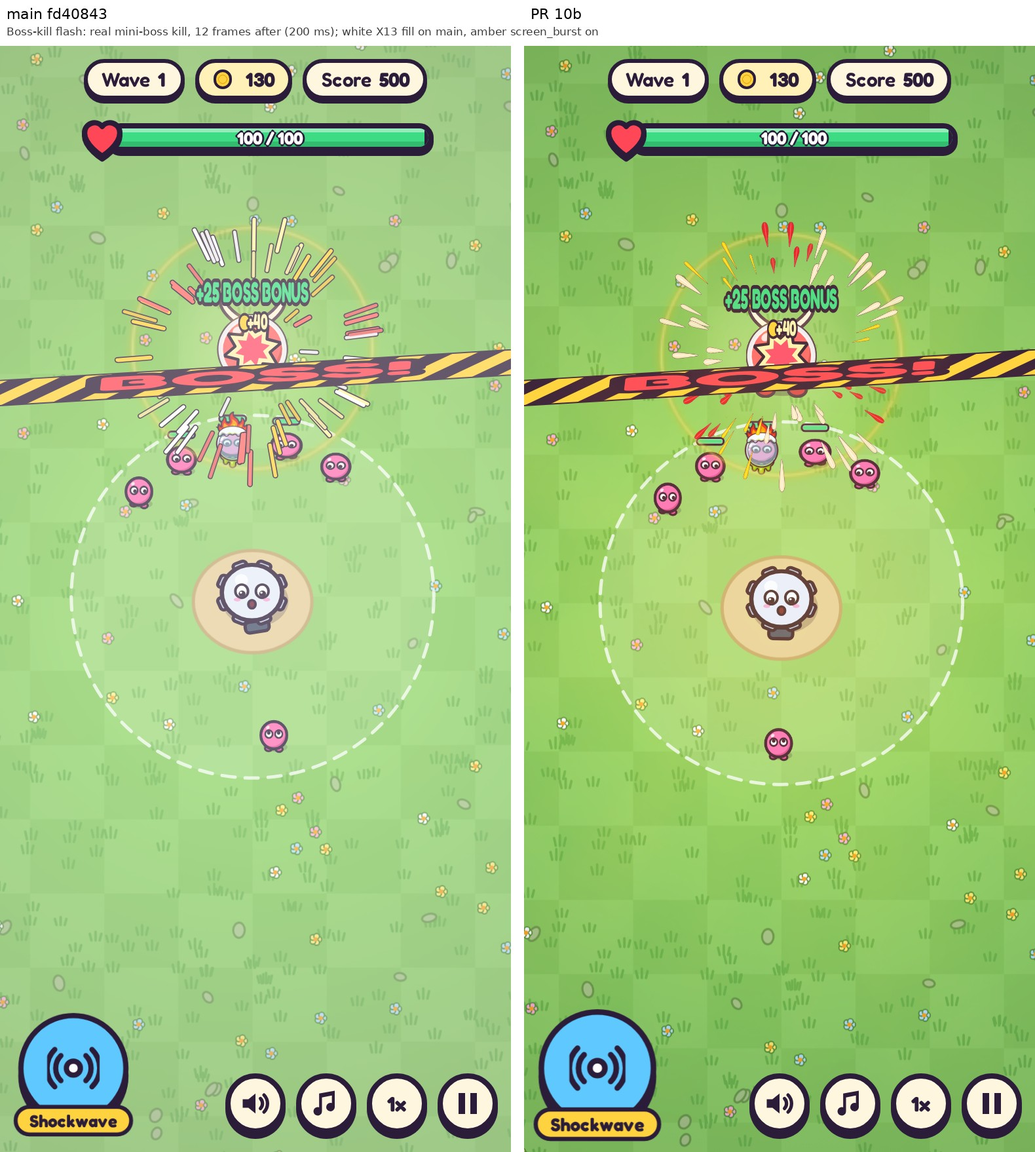
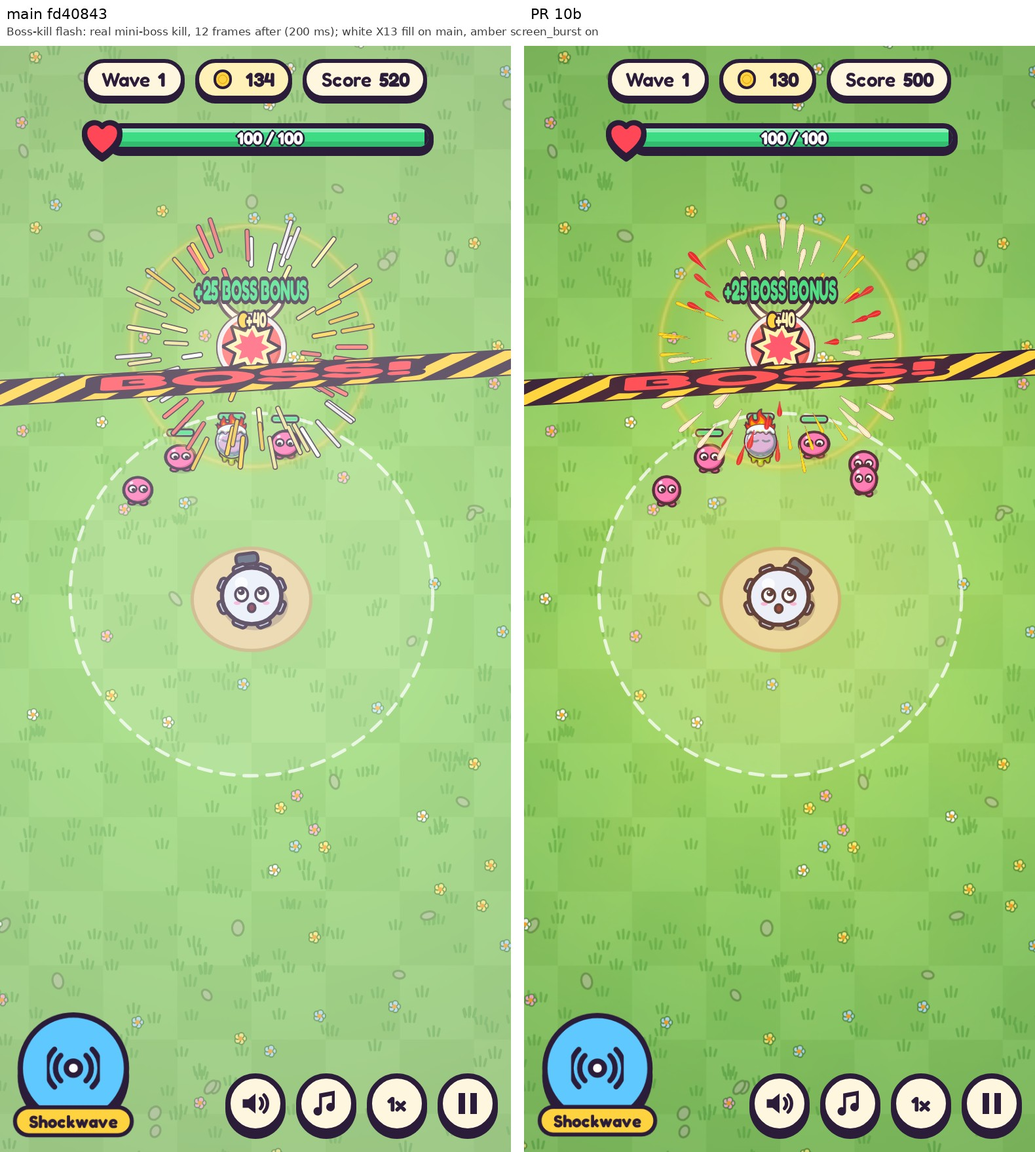
PR 10b P3s: lime v3, streak tuning, no per-particle allocation, QA tools, coverage checks
- streak_lime v3 (sha da9e529b...; its own painting, 12/10/9 px); v1 and v2 hashes under
  PROVENANCE `supersedes`, factual notes only. fx-test: lime-vs-pale alpha-mask IoU < 0.9
  (v2 0.983 red, v3 0.619 green).
- Streaks: fade.until 2 / power 0 on every streak.* (longer fresh / mid frames) and
  streakBurst.minLength 24, so slowed streaks stay dashes; data only.
- ParticleBatch / ProjectileTrails: one reused args object, ids cached by
  FxManifest.variantId, one save / restore per pass ("batched" SpriteEffect draws undo their
  own transform). Effective draws identical (2221 draws: corners, alpha, blend).
  render-test checks the reuse (red on the old drawers).
- fx-test: every element trail has presets.trail.elementGlows naming a glow effect.
- docs/qa/pr10b shots.py / cmp.py -> tools/qa/pr10b-shots.py / pr10b-compare.py (argparse:
  --port / --base / --tag / --out; --main / --pr / --out), zoom crops included. Re-shot.
- OO-MIGRATION: PR 10b status follows the Nov 23 rule.

diff --git a/tools/render-test.js b/tools/render-test.js
@@ -247,8 +247,12 @@ class RenderTest {
       const moving = shots.filter((p) => p.vx || p.vy), lens = moving.map((p) => Math.min(T.maxLength, Math.hypot(p.vx, p.vy) * T.stretch) * (p.trail ? T.elementLength : 1));
       this.ok(JSON.stringify(trails.map((d) => d.img)) === JSON.stringify(["trail_base", "trail_base", "trail_frost", "trail_ember"]) && trails.every((d, i) => near(d.dw, lens[i]) && near(d.dh, T.height)),
         `fx 10b (${th}, low=${low}): every moving shot plays trail.<its element trail, else base> stretched behind it (lengths ${lens.map((l) => l.toFixed(1)).join(", ")}, height ${T.height}); a still shot has none`);
-      const rots = out.trails.filter((l) => l.startsWith("ctx.rotate(")).slice(0, 4).map((l) => Number(l.slice(11, -1)));
-      this.ok(rots.length === 4 && moving.every((p, i) => near(rots[i], Math.atan2(p.vy, p.vx))), `fx 10b (${th}, low=${low}): each trail is rotated to its shot's velocity`);
+      // Batched draws undo their own rotate (no per-draw save / restore): rotations come in (a, -a) pairs.
+      const allRots = out.trails.filter((l) => l.startsWith("ctx.rotate(")).map((l) => Number(l.slice(11, -1)));
+      const rots = allRots.filter((_, k) => k % 2 === 0).slice(0, 4), undone = allRots.length % 2 === 0 && allRots.every((r, k) => k % 2 === 0 || r === -allRots[k - 1]);
+      this.ok(rots.length === 4 && undone && moving.every((p, i) => near(rots[i], Math.atan2(p.vy, p.vx))), `fx 10b (${th}, low=${low}): each trail is rotated to its shot's velocity, and each rotate is undone exactly`);
+      const saves = all.filter((l) => l === "ctx.save()").length, restores = all.filter((l) => l === "ctx.restore()").length;
+      this.ok(saves === restores && saves <= 2, `fx 10b (${th}, low=${low}): no per-particle save / restore (one balanced pair per drawer pass: ${saves} / ${restores})`);
       const tA = out.trails.filter((l) => l.startsWith("ctx.globalAlpha=")).map((l) => Number(l.slice(16)));
       this.ok(tA.slice(0, 4).every((a) => near(a, Math.min(1, theme.trailAlpha))), `fx 10b (${th}, low=${low}): trails at the theme's trail opacity (${theme.trailAlpha})`);
       const wantG = low ? [] : ["glow_gold", "glow_gold", "glow_amber", "glow_cyan", "glow_orange"], wantR = [T.glowRadius, T.glowRadius, T.critGlowRadius, T.glowRadius * T.elementGlowMul, T.glowRadius * T.elementGlowMul];
@@ -265,16 +269,24 @@ class RenderTest {
       const motes = pd.filter((d) => d.img === "motes");
       this.ok(motes.every((d, k) => near(d.dw, 2 * mR(soft[k]))), `fx 10b (${th}, low=${low}): mote cores at the old core radius (max(1.2 px, 0.24 x size)) x the entry's size`);
       const streaks = pd.filter((d) => d.img.startsWith("streak_")), step = (i) => Math.min(2, ((1 - pool.life[i] / pool.maxLife[i]) * 3) | 0);
-      this.ok(streaks.length === streak.length && streaks.every((d, k) => { const i = streak[k], sp = Math.hypot(pool.vx[i], pool.vy[i]) || 1; return d.sx === Math.floor(((step(i) + 0.5) / 3) * 4) * 64 && near(d.dh, pool.size[i] + ink * 1.5) && near(d.dw, Math.max(pool.minLen[i], sp * pool.stretch[i])); }),
-        `fx 10b (${th}, low=${low}): streaks play the frame of their fade step (fresh / mid / fade: progress (step + 0.5) / 3 through the strip; the stub strip has 4 frames), stretched to the old length (max(minLen, speed x stretch)), height = width + the old ink edge (${ink} px x unit)`);
+      this.ok(streaks.length === streak.length && streaks.every((d, k) => { const i = streak[k], sp = Math.hypot(pool.vx[i], pool.vy[i]) || 1; const U = (data.effects["streak." + pal[pool.color[i]]].fade || {}).until || 1; return d.sx === Math.min(3, Math.floor(((step(i) + 0.5) / 3 / U) * 4)) * 64 && near(d.dh, pool.size[i] + ink * 1.5) && near(d.dw, Math.max(pool.minLen[i], sp * pool.stretch[i])); }),
+        `fx 10b (${th}, low=${low}): streaks play the frame of their fade step (fresh / mid / fade: progress (step + 0.5) / 3 / fade.until through the strip, fx.json holds the longer frames; the stub strip has 4 frames), stretched to the old length (max(minLen, speed x stretch)), height = width + the old ink edge (${ink} px x unit)`);
       const pA = out.pool.filter((l) => l.startsWith("ctx.globalAlpha=")).map((l) => Number(l.slice(16)));
       const wantA = [...glowOrder.map((i) => { const f = pool.life[i] / pool.maxLife[i]; return (pool.shape[i] === S.SOFT ? Math.min(1, (1 - f) * 6) * Math.pow(f, 0.6) * 0.85 : f) * theme.glow; }),
         ...soft.map((i) => { const f = pool.life[i] / pool.maxLife[i]; return Math.min(1, (1 - f) * 6) * Math.pow(f, 0.5) * 0.95; }), ...streak.map((i) => Math.min(1, (1 - (step(i) + 0.5) / 3) * 1.8))].map((a) => Math.min(1, a)).filter((a) => a >= 0.01);
       this.ok(pA.length === wantA.length && pA.every((a, i) => near(a, wantA[i])), `fx 10b (${th}, low=${low}): every particle keeps the old opacity curve (${pA.length} draws)`);
       this.ok(fx.drawn === n, `fx 10b: the batcher still counts drawn particles for QA (${fx.drawn})`);
     }
+    { // P3: no per-particle allocation. Every draw from a drawer reuses its one args object, and ids are cached strings.
+      const { fx, pool, shots } = this.particleCalls(true, false, "cartoon"), E = fx.effects, seen = [], draw = E.draw.bind(E);
+      E.draw = (id, ctx, at) => { seen.push([id, at]); return draw(id, ctx, at); };
+      const c = new DrawRecorder().ctx("c"); fx.drawProjectiles(c, shots, false); fx.drawPool(c, pool, 1.5, false);
+      const ats = new Set(seen.map(([, at]) => at)), ids = typeof E.variantId === "function" && seen.every(([id]) => id === E.variantId(...id.split(".")));
+      this.ok(seen.length > 20 && ats.size === 2 && ids, `fx 10b: trails and particles reuse one args object per drawer and cached ids (${seen.length} draws, ${ats.size} args objects)`);
+    }
     const none = this.particleCalls(false, false, "cartoon"), drawn = [...none.out.trails, ...none.out.pool];
-    this.ok(drawn.length === 0, `fx 10b: with no art loaded, trails and particles draw nothing at all (no fallback; ${drawn.length} calls)`);
+    const real = drawn.filter((l) => l !== "ctx.save()" && l !== "ctx.restore()");
+    this.ok(real.length === 0 && drawn.filter((l) => l === "ctx.save()").length === drawn.filter((l) => l === "ctx.restore()").length, `fx 10b: with no art loaded, trails and particles draw nothing at all (no fallback; ${real.length} calls besides the drawers' balanced save / restore)`);
   }
 
   // ---------- 3. PR 10a: the converted drawers play fx.json effects ----------

diff --git a/tools/fx-test.js b/tools/fx-test.js
@@ -93,11 +93,17 @@ class FxTest {
     const B = { motes: ["motes", 256, 32, 8], vignette_red: ["vignette", 720, 1560, 1], vignette_dark: ["vignette", 720, 1560, 1] };
     for (const v of ["pale", "gold", "amber", "red", "pink", "cyan", "green", "lime", "soot"]) B["streak_" + v] = ["streak", 192, 16, 3];
     for (const v of ["base", "ember", "frost", "spark", "venom"]) B["trail_" + v] = ["trail", 128, 24, 1];
-    // streak_lime v2 (Nov 23: one approved repaint, frames fill 16 / 14 / 12 px) replaces v1 in place; v1's hash is kept in its entry's "supersedes".
-    const V10b = { streak_lime: "v2" };
-    const lime = prov["streak/streak_lime.png"] || {};
[1 lines of base64/hex data omitted]
-      "art 10b: streak_lime ships v2 and its PROVENANCE entry keeps v1's sha256 (fb167b38) as history");
+    // streak_lime v3 (Nov 23, painted from its own prompt with no reference) replaces v1 (too thin) and v2 (blocked:
+    // a recolour of streak_pale); both hashes stay in its PROVENANCE entry's "supersedes" as history.
+    const V10b = { streak_lime: "v3" };
+    const lime = prov["streak/streak_lime.png"] || {}, sup = [].concat(lime.supersedes || []);
[2 lines of base64/hex data omitted]
+      "art 10b: streak_lime ships v3 (da9e529b) and its PROVENANCE entry keeps v1 (fb167b38) and v2 (cfcc43bb) as history");
+    // A colour variant is its own painting, not another variant recoloured: lime's alpha mask (alpha >= 50%,
+    // whole sheet) overlaps pale's with IoU < 0.9 (v2, a pale recolour, measured 0.983).
+    const iou = FxTest.maskIoU(path.join(this.root, "assets/fx/streak/streak_lime.png"), path.join(this.root, "assets/fx/streak/streak_pale.png"));
+    this.ok(iou < 0.9, `art 10b: streak_lime is its own painting, not streak_pale recoloured (alpha >= 50% mask IoU vs pale ${iou.toFixed(3)} < 0.9)`);
     const bad10b = Object.entries(B).filter(([id, [dir, w, h, n]]) => {
       const rel = data.sheets[id], j = rel && JSON.parse(this.read("assets/fx/" + rel)), f = j && dir + "/" + j.image, wh = f && png(f);
       return !j || rel !== dir + "/" + id + ".json" || !prov[f] || prov[f].version !== (V10b[id] || "v1") || j.version !== (V10b[id] || "v1") || wh[0] !== w || wh[1] !== h || j.count !== n || j.frameW * n !== w || j.frameH !== h
@@ -107,7 +113,7 @@ class FxTest {
     const moteBad = Object.entries(data.effects).filter(([k]) => k.startsWith("mote.")).filter(([k, e]) => e.sheet !== "motes" || e.frame !== cells.indexOf(k.slice(5)) || e.frame < 0).map(([k]) => k);
     const fills = ["lowHpVignette:vignette_red", "finaleDim:vignette_dark"].filter((x) => { const [k, sh] = x.split(":"); return data.effects[k].sheet !== sh || data.effects[k].fit !== "fill"; });
     this.ok(!bad10b.length && !moteBad.length && cells.length === 8 && !fills.length,
-      `art 10b: ${Object.keys(B).length} delivered sheets (v1; streak_lime v2) at their delivered sizes with head-right pivots (bad: ${bad10b.join(", ") || "none"}); mote.<v> plays the motes cell named v (bad: ${moteBad.join(", ") || "none"}); lowHpVignette / finaleDim fill the screen with vignette_red / vignette_dark (bad: ${fills.join(", ") || "none"})`);
+      `art 10b: ${Object.keys(B).length} delivered sheets (v1; streak_lime v3) at their delivered sizes with head-right pivots (bad: ${bad10b.join(", ") || "none"}); mote.<v> plays the motes cell named v (bad: ${moteBad.join(", ") || "none"}); lowHpVignette / finaleDim fill the screen with vignette_red / vignette_dark (bad: ${fills.join(", ") || "none"})`);
     // Venom bursts (main: pale lime #e4ffb8, lime #b4f06a, green #8be04a) play streak_lime twice and green once (Game Art streak_lime, Nov 16).
     const ven = data.impacts.elemVenom && data.impacts.elemVenom.colors;
     this.ok(String(ven) === "lime,lime,green" && data.effects["streak.lime"] && data.effects["streak.lime"].sheet === "streak_lime" && prov["streak/streak_lime.png"],
@@ -202,16 +208,39 @@ class FxTest {
     return out;
   }
 
+  // Every element's shot trail (src/elements/*.js `trail: "x"`) has presets.trail.elementGlows[x]
+  // naming an existing glow effect, and a trail.x effect. A missing entry would otherwise draw the
+  // id "glow.undefined" (nothing) without any error.
+  checkElementGlows(data) {
+    const dir = path.join(this.root, "src/elements"), T = (data.presets && data.presets.trail) || {}, G = T.elementGlows || {};
+    const trails = [...new Set(fs.readdirSync(dir).filter((f) => f.endsWith(".js")).flatMap((f) => [...this.read("src/elements/" + f).matchAll(/\btrail:\s*"(\w+)"/g)].map((m) => m[1])))].sort();
+    this.ok(trails.length >= 4, `elements: found the element shot trails (${trails.join(", ")})`);
+    for (const t of trails) {
+      this.ok(typeof G[t] === "string" && !!data.effects["glow." + G[t]], `elements: trail "${t}" has presets.trail.elementGlows.${t} naming a glow effect (${G[t] === undefined ? "missing: would draw glow.undefined" : "glow." + G[t]})`);
+      this.ok(!!data.effects["trail." + t], `elements: trail "${t}" has a trail.${t} effect`);
+    }
+  }
+
   async run() {
     const LST = this.sandbox().LST;
     this.checkFiles();
     const data = this.checkManifest(LST);
+    this.checkElementGlows(data);
     this.checkObjects(LST);
     await this.checkServiceWorker(data);
     console.log(this.fails ? `\n${this.fails} FAILED (${this.passes} passed)` : `\nALL PASS (${this.passes} passed)`);
     return this.fails ? 1 : 0;
   }
 }
+
+// IoU of two same-size PNGs' alpha >= 50% masks (whole sheet).
+FxTest.maskIoU = (a, b) => {
+  const P = require("./fx-art-scan.js").png, A = P(fs.readFileSync(a)), B = P(fs.readFileSync(b));
+  if (A.w !== B.w || A.h !== B.h) return 0;
+  let both = 0, any = 0;
+  for (let i = 3; i < A.px.length; i += 4) { const x = A.px[i] >= 128, y = B.px[i] >= 128; if (x && y) both++; if (x || y) any++; }
+  return any ? both / any : 0;
+};
 
 module.exports = FxTest;
 if (require.main === module) new FxTest().run().then((c) => process.exit(c));

diff --git a/src/fx/draw/ParticleBatch.js b/src/fx/draw/ParticleBatch.js
@@ -5,12 +5,23 @@
 // and the ink outline is in the art. A particle's colour is a variant name (fx.json presets and
 // impacts); it never draws a shape or tints, and draws nothing until the art is in.
 // Drawn for FxRenderer (the batcher), which passes itself as `fx` for the theme and the effects.
+// Per frame it allocates nothing: one reused draw-args object (every field set on each draw), ids
+// from FxManifest.variantId, and one save / restore around the passes (draws are "batched").
 LST.ParticleBatch = class ParticleBatch {
+  constructor() { this.at = { x: 0, y: 0, x2: null, y2: null, base: 1, p: null, alpha: 1, blend: null, batched: true }; }
+
+  // The reused draw args for one particle (no per-particle object).
+  args(x, y, x2, y2, base, p, alpha, blend) {
+    const at = this.at; at.x = x; at.y = y; at.x2 = x2; at.y2 = y2; at.base = base; at.p = p; at.alpha = alpha; at.blend = blend;
+    return at;
+  }
+
   draw(fx, ctx, pool, unitPx = 1, low = false) {
     const n = pool.count;
     if (!n) return;
     const th = fx.theme, S = LST.FX_SHAPE, pal = pool.palette, E = fx.effects;
     if (!E) return;
+    ctx.save();
     let streaks = 0;
     for (let i = 0; i < n; i++) {
       const sh = pool.shape[i];
@@ -18,15 +29,16 @@ LST.ParticleBatch = class ParticleBatch {
       const f = pool.life[i] / pool.maxLife[i];
       const R = sh === S.SOFT ? pool.size[i] * (0.55 + 0.45 * f) : pool.size[i] * (1.2 - 0.2 * f);
       const a = (sh === S.SOFT ? Math.min(1, (1 - f) * 6) * Math.pow(f, 0.6) * 0.85 : f) * th.glow;
-      E.draw("glow." + pal[pool.color[i]], ctx, { x: pool.x[i], y: pool.y[i], base: R, alpha: a, blend: th.blend });
+      E.draw(E.variantId("glow", pal[pool.color[i]]), ctx, this.args(pool.x[i], pool.y[i], null, null, R, null, a, th.blend));
     }
     for (let i = 0; i < n; i++) {
       if (pool.shape[i] !== S.SOFT) continue;
       const f = pool.life[i] / pool.maxLife[i];
       const r = Math.max(1.2 * unitPx, pool.size[i] * 0.24);
-      E.draw("mote." + pal[pool.color[i]], ctx, { x: pool.x[i], y: pool.y[i], base: r, alpha: Math.min(1, (1 - f) * 6) * Math.pow(f, 0.5) * 0.95 });
+      E.draw(E.variantId("mote", pal[pool.color[i]]), ctx, this.args(pool.x[i], pool.y[i], null, null, r, null, Math.min(1, (1 - f) * 6) * Math.pow(f, 0.5) * 0.95, null));
     }
     if (streaks) this.drawStreaks(fx, ctx, pool, unitPx);
+    ctx.restore();
   }
 
   // Streak b (fade step 0 = fresh .. FADE-1 = nearly dead) plays frame b at the old step opacity;
@@ -39,8 +51,8 @@ LST.ParticleBatch = class ParticleBatch {
       const b = this.fadeStep(pool, i, FADE), f = 1 - (b + 0.5) / FADE;
       const vx = pool.vx[i], vy = pool.vy[i], sp = Math.hypot(vx, vy) || 1;
       const len = Math.max(pool.minLen[i], sp * pool.stretch[i]);
-      E.draw("streak." + pal[pool.color[i]], ctx, { x: pool.x[i], y: pool.y[i], x2: pool.x[i] + (vx / sp) * len, y2: pool.y[i] + (vy / sp) * len,
-        base: pool.size[i] + ink * unitPx, p: (b + 0.5) / FADE, alpha: Math.min(1, f * 1.8) });
+      E.draw(E.variantId("streak", pal[pool.color[i]]), ctx, this.args(pool.x[i], pool.y[i], pool.x[i] + (vx / sp) * len, pool.y[i] + (vy / sp) * len,
+        pool.size[i] + ink * unitPx, (b + 0.5) / FADE, Math.min(1, f * 1.8), null));
     }
   }
 

diff --git a/src/fx/SpriteEffect.js b/src/fx/SpriteEffect.js
@@ -4,12 +4,14 @@
 // with drawImage and may move, scale, rotate and fade it (opacity). It never draws a shape,
 // never tints, and draws nothing until its image is in.
 //
-//   draw(ctx, at)  at = { x, y, base, t, p, level, variant, pick, alpha, blend, low, x2, y2, index, w, h }
+//   draw(ctx, at)  at = { x, y, base, t, p, level, variant, pick, alpha, blend, low, x2, y2, index, w, h, batched }
 //     base     the caller's size unit (tower radius, ring radius, 1 for px); R = size x base
 //     t        seconds (loop frames, pulses)      p  life progress 0..1 (one-shot frames, fades)
 //     level    0..1 for "by": "level" values      variant / pick  which sheet / strip of a list
 //     alpha    the caller's strength (x the entry alpha)   blend  the caller's composite op (else the entry's)
 //     x2, y2   segment end ("fit": "segment" / "stretch")  w, h   the rectangle at x, y ("fit": "fill")
+//     batched  the caller wraps a whole pass in one save / restore: no per-draw save / restore (it
+//              sets blend and opacity on every draw and undoes its own segment transform)
 //   fit: radius (default), segment (art height x size), stretch (height = size x base), fill (the rectangle).
 //   frame: a fixed frame of the strip (an atlas cell), instead of playing it.
 LST.SpriteEffect = class SpriteEffect {
@@ -70,14 +72,14 @@ LST.SpriteEffect = class SpriteEffect {
     const W = LST.SpriteEffect;
     const a = W.value(e.alpha, at, p) * (at.alpha == null ? 1 : at.alpha) * this.fade(p) * (1 + W.wave(e.alphaPulse, at.t) - (e.alphaPulse ? e.alphaPulse.amp : 0));
     if (a < 0.01) return false;
-    const i = this.frame(anim, at, p), off = e.offset || [0, 0];
-    ctx.save();
+    const i = this.frame(anim, at, p), off = e.offset;
+    if (!at.batched) ctx.save();
     ctx.globalCompositeOperation = at.blend || e.blend || "source-over";
     ctx.globalAlpha = Math.min(1, a);
     if (e.fit === "segment" || e.fit === "stretch") this.drawSegment(ctx, anim, i, at, p);
     else if (e.fit === "fill") ctx.drawImage(anim.image, Math.max(0, Math.min(anim.count - 1, i | 0)) * anim.fw, anim.sy, anim.fw, anim.fh, at.x, at.y, at.w, at.h);
-    else anim.draw(ctx, i, at.x + off[0], at.y + off[1], (W.value(e.size, at, p) + W.wave(e.pulse, at.t)) * (at.base == null ? 1 : at.base));
-    ctx.restore();
+    else anim.draw(ctx, i, at.x + (off ? off[0] : 0), at.y + (off ? off[1] : 0), (W.value(e.size, at, p) + W.wave(e.pulse, at.t)) * (at.base == null ? 1 : at.base));
+    if (!at.batched) ctx.restore();
     return true;
   }
 
@@ -92,8 +94,11 @@ LST.SpriteEffect = class SpriteEffect {
     const kx = L / anim.fw, ky = LST.SpriteEffect.value(e.size, at, p) * (at.base == null ? 1 : at.base) / (e.fit === "stretch" ? anim.fh : 1);
     const f = Math.max(0, Math.min(anim.count - 1, i | 0));
     ctx.translate(at.x, at.y);
-    ctx.rotate(Math.atan2(uy, ux));
+    const angle = Math.atan2(uy, ux);
+    ctx.rotate(angle);
     ctx.drawImage(anim.image, f * anim.fw, anim.sy, anim.fw, anim.fh, -anim.ax * kx, -anim.ay * ky, anim.fw * kx, anim.fh * ky);
+    // Batched callers own canvas state; undo only our local transform, without a state-stack copy.
+    if (at.batched) { ctx.rotate(-angle); ctx.translate(-at.x, -at.y); }
   }
 };
 

diff --git a/src/fx/draw/ProjectileTrails.js b/src/fx/draw/ProjectileTrails.js
@@ -4,24 +4,35 @@
 // (crit, element or plain glow from presets.trail), skipped in low quality. It never draws a
 // shape or tints, and draws nothing until the art is in.
 // Drawn for FxRenderer (the batcher), which passes itself as `fx` for the theme and the effects.
+// Per frame it allocates nothing: one reused draw-args object (every field set on each draw), ids
+// from FxManifest.variantId, and one save / restore around the passes (draws are "batched").
 LST.ProjectileTrails = class ProjectileTrails {
+  constructor() { this.at = { x: 0, y: 0, x2: null, y2: null, base: 1, alpha: 1, blend: null, batched: true }; }
+
+  args(x, y, x2, y2, base, alpha, blend) {
+    const at = this.at; at.x = x; at.y = y; at.x2 = x2; at.y2 = y2; at.base = base; at.alpha = alpha; at.blend = blend;
+    return at;
+  }
+
   draw(fx, ctx, list, low) {
     const E = fx.effects, T = E && E.preset("trail"), th = fx.theme;
     if (!list.length || !T) return;
+    ctx.save();
     for (let i = 0; i < list.length; i++) {
       const p = list[i];
       const sp = Math.hypot(p.vx, p.vy);
       if (!sp) continue;
       const len = Math.min(T.maxLength, sp * T.stretch) * (p.trail ? T.elementLength : 1);
-      E.draw("trail." + (p.trail || T.variant), ctx, { x: p.x, y: p.y, x2: p.x + (p.vx / sp) * len, y2: p.y + (p.vy / sp) * len, base: T.height, alpha: th.trailAlpha });
+      E.draw(E.variantId("trail", p.trail || T.variant), ctx, this.args(p.x, p.y, p.x + (p.vx / sp) * len, p.y + (p.vy / sp) * len, T.height, th.trailAlpha, null));
     }
-    if (low) return;
+    if (low) { ctx.restore(); return; }
     const a = Math.min(1, T.glowAlpha * th.glow);
     for (let i = 0; i < list.length; i++) {
       const p = list[i];
       const R = (p.crit ? T.critGlowRadius : T.glowRadius) * (p.trail ? T.elementGlowMul : 1);
       const g = p.crit ? T.critGlow : p.trail ? T.elementGlows[p.trail] : T.glow;
-      E.draw("glow." + g, ctx, { x: p.x, y: p.y, base: R, alpha: a, blend: th.blend });
+      E.draw(E.variantId("glow", g), ctx, this.args(p.x, p.y, null, null, R, a, th.blend));
     }
+    ctx.restore();
   }
 };

diff --git a/src/sprites/SheetAnimation.js b/src/sprites/SheetAnimation.js
@@ -38,7 +38,8 @@ LST.SheetAnimation = class SheetAnimation {
 
   draw(ctx, i, x, y, bodyR) {
     if (!this.image) return false;
-    const f = Math.max(0, Math.min(this.count - 1, i | 0)), [dx, dy, dw, dh] = this.rect(x, y, bodyR);
+    const f = Math.max(0, Math.min(this.count - 1, i | 0)), k = bodyR / this.refBodyR;
+    const dx = x - this.ax * k, dy = y - this.ay * k, dw = this.fw * k, dh = this.fh * k;
     ctx.drawImage(this.image, f * this.fw, this.sy, this.fw, this.fh, dx, dy, dw, dh);
     return true;
   }

diff --git a/src/fx/FxManifest.js b/src/fx/FxManifest.js
@@ -98,6 +98,11 @@ LST.FxManifest = class FxManifest {
   impact(name) { return (name && this.data.impacts[name]) || null; }
 
   preset(id) { return this.data.presets[id] || null; }
+  // "<kind>.<variant>" (e.g. "glow.gold"), built once per pair so per-particle draws make no strings.
+  variantId(kind, v) {
+    const c = this.ids || (this.ids = {}), k = c[kind] || (c[kind] = {});
+    return k[v] || (k[v] = kind + "." + v);
+  }
   theme(id) { return this.data.themes[id] || null; }
 
   triggers() {

diff --git a/tools/qa/pr10b-compare.py b/tools/qa/pr10b-compare.py
@@ -1,0 +1,48 @@
+#!/usr/bin/env python3
+# PR 10b side-by-side compares from two pr10b-shots.py runs: one main-vs-PR image per shot, a
+# contact sheet (each pair at 1/3), and zoom crops (the two crops side by side at device pixels).
+#   python3 tools/qa/pr10b-compare.py --main /tmp/shots-main --pr /tmp/shots-10b --out docs/qa/pr10b
+import argparse, json, os
+from PIL import Image, ImageDraw, ImageFont
+ap = argparse.ArgumentParser(description="PR 10b main-vs-PR compares, contact sheet and zooms")
+ap.add_argument("--main", required=True, help="folder of the main run (pr10b-shots-<tag>.json inside)")
+ap.add_argument("--pr", required=True, help="folder of the PR run")
+ap.add_argument("--main-tag", default="main"); ap.add_argument("--pr-tag", default="10b")
+ap.add_argument("--main-label", default="main fd40843"); ap.add_argument("--pr-label", default="PR 10b")
+ap.add_argument("--out", required=True, help="output folder (created if missing)")
+ap.add_argument("--font", default="/usr/share/fonts/truetype/dejavu/DejaVuSans.ttf")
+A = ap.parse_args()
+os.makedirs(A.out, exist_ok=True)
+M = json.load(open(os.path.join(A.main, "pr10b-shots-%s.json" % A.main_tag)))
+B = json.load(open(os.path.join(A.pr, "pr10b-shots-%s.json" % A.pr_tag)))
+F, F2, F3 = (ImageFont.truetype(A.font, s) for s in (22, 17, 14))
+names = {}
+out = []
+for (n, lab, fm, *_), (nb, _, fb, *__) in zip(M["shots"], B["shots"]):
+    assert n == nb, (n, nb)
+    a, b = Image.open(os.path.join(A.main, fm)).convert("RGB"), Image.open(os.path.join(A.pr, fb)).convert("RGB")
+    names[n] = (a, b)
+    W, H = a.size; C = Image.new("RGB", (W * 2 + 20, H + 70), "white"); C.paste(a, (0, 70)); C.paste(b, (W + 20, 70))
+    d = ImageDraw.Draw(C); d.text((10, 8), A.main_label, fill="black", font=F); d.text((W + 30, 8), A.pr_label, fill="black", font=F)
+    d.text((10, 38), lab[:110], fill=(60, 60, 60), font=F2)
+    f = os.path.join(A.out, "pr10b-%s-main-vs-10b-390x844.jpg" % n); C.save(f, quality=90); out.append(f)
+# contact sheet: each pair at 1/3
+tw, th = (780 * 2 + 20) // 3, (1688 + 70) // 3; cols = 3; rows = (len(out) + cols - 1) // cols
+S = Image.new("RGB", (cols * (tw + 10), rows * (th + 10)), "white")
+for i, f in enumerate(out): S.paste(Image.open(f).resize((tw, th)), ((i % cols) * (tw + 10), (i // cols) * (th + 10)))
+S.save(os.path.join(A.out, "pr10b-contact-sheet.jpg"), quality=88)
+# zooms: name -> (shot, device-px box x0, y0, x1, y1, scale, caption); the two crops side by side
+ZOOMS = {
+    "trails-row": ("09-trails-row", (90, 500, 690, 800), 1, "trails 1 fr"),
+    "streaks-each-f05": ("07-streaks-each-f05", (0, 100, 780, 900), 0.75, "streaks 5 fr"),
+    "streaks-each-f14": ("07-streaks-each-f14", (0, 100, 780, 900), 0.75, "streaks 14 fr"),
+    "motes-t4": ("05-motes-t4", (180, 640, 600, 1000), 1, "motes tier 4"),
+    "venom-burst": ("04b-streaks-elements", (120, 420, 380, 680), 2, "venom burst 5 fr"),
+}
+for z, (n, box, k, cap) in ZOOMS.items():
+    if n not in names: continue
+    a, b = (im.crop(box).resize((round((box[2] - box[0]) * k), round((box[3] - box[1]) * k)), Image.LANCZOS) for im in names[n])
+    w, h = a.size; C = Image.new("RGB", (w * 2 + 12, h + 22), "white"); C.paste(a, (0, 22)); C.paste(b, (w + 12, 22))
+    d = ImageDraw.Draw(C); d.text((4, 3), "%s  %s" % (A.main_label, cap), fill="black", font=F3); d.text((w + 16, 3), A.pr_label, fill="black", font=F3)
+    C.save(os.path.join(A.out, "pr10b-zoom-%s-main-vs-10b.png" % z))
+print(len(out), "compares,", len(ZOOMS), "zooms ->", A.out)

diff --git a/tools/qa/pr10b-shots.py b/tools/qa/pr10b-shots.py
@@ -1,8 +1,23 @@
+#!/usr/bin/env python3
 # PR 10b shots (390 x 844 @2x, Backyard), same script on main and on the PR tree. The game loop is
 # stopped and frames are stepped by hand, so each effect is caught at a set point in its life.
-import json, sys, math
+#   python3 tools/qa/pr10b-shots.py --port 8767 --tag 10b --out /tmp/shots-10b
+#   python3 tools/qa/pr10b-shots.py --port 8768 --tag main --out /tmp/shots-main   (a main worktree served on 8768)
+# Serve the tree first (e.g. python3 -m http.server 8767). Writes pr10b-<shot>-<tag>-390x844.png and
+# pr10b-shots-<tag>.json (labels, per-shot state, page errors) into --out.
+import argparse, json, os, sys, math
 from playwright.sync_api import sync_playwright
-BASE, TAG, OUT = sys.argv[1], sys.argv[2], sys.argv[3]
+ap = argparse.ArgumentParser(description="PR 10b effect shots at 390x844 @2x")
+ap.add_argument("--base", help="game URL ending in / (default http://<host>:<port>/)")
+ap.add_argument("--host", default="127.0.0.1")
+ap.add_argument("--port", type=int, default=8767)
+ap.add_argument("--tag", required=True, help="name in the file names, e.g. main or 10b")
+ap.add_argument("--out", required=True, help="output folder (created if missing)")
+A = ap.parse_args()
+BASE = A.base or "http://%s:%d/" % (A.host, A.port)
+if not BASE.endswith("/"): BASE += "/"
+TAG, OUT = A.tag, os.path.join(A.out, "")
+os.makedirs(OUT, exist_ok=True)
 errs = []; shots = []
 STEP = """(n) => { const fx = LST.fxDirector, r = game.renderer; for (let i = 0; i < n; i++) { fx.update(1/60, game, 16.7); r.draw(game, 1/60); fx.endFrame(16.7, 1); } }"""
 RUN = """(n) => { const fx = LST.fxDirector, r = game.renderer; for (let i = 0; i < n; i++) { game.update(1/60); fx.update(1/60, game, 16.7); r.draw(game, 1/60); fx.endFrame(16.7, 1); } }"""

diff --git a/docs/OO-MIGRATION.md b/docs/OO-MIGRATION.md
@@ -322,7 +322,7 @@ Rows 9-13 as asked of Game Art & Motion for PR 10b on Nov 16 (the "more subtlety
 
 Text glows (X8) reuse #7 gold and amber. 10a shipped 27 PNGs (rows 1-8); 10b asks for 16 more (rows 9-13: 1 atlas, 8 streaks, 5 trails, 2 vignettes).
 
-Rows 9-13 delivered Nov 16 (12:10 PM ET, v1, 16 PNGs, plus `streak_lime` at 12:35 PM ET; `assets/fx/{motes,streak,trail,vignette}/`). Known gaps Game Art flagged, judged at play size in `docs/qa/pr10b/`: cyan streak frames have no width step, soot fade 81%, gold / amber fill 63% / 88% of the height, a faint streak outline; vignette_red top / bottom middles 0.21-0.28 and side middles about 0.02; trail cores 58-72% of the band, base and spark cores low in contrast. Added at 12:35 PM ET: `streak_lime` (`#c8ec5a`): venom bursts play lime, lime, green (main's pale lime `#e4ffb8`, lime `#b4f06a`, green `#8be04a`). v1 filled only 7 / 6 / 5 px of the 16 px height and read as hairlines; Brian approved one repaint (Nov 23), and v2 (frames 16 / 14 / 12 px, like the other streaks) replaced it in place, with v1's sha256 kept in the PROVENANCE entry's `supersedes`.
+Rows 9-13 delivered Nov 16 (12:10 PM ET, v1, 16 PNGs, plus `streak_lime` at 12:35 PM ET; `assets/fx/{motes,streak,trail,vignette}/`). Known gaps Game Art flagged, judged at play size in `docs/qa/pr10b/`: cyan streak frames have no width step, soot fade 81%, gold / amber fill 63% / 88% of the height, a faint streak outline; vignette_red top / bottom middles 0.21-0.28 and side middles about 0.02; trail cores 58-72% of the band, base and spark cores low in contrast. Added at 12:35 PM ET: `streak_lime` (`#c8ec5a`): venom bursts play lime, lime, green (main's pale lime `#e4ffb8`, lime `#b4f06a`, green `#8be04a`). v1 filled only 7 / 6 / 5 px of the 16 px height and read as hairlines. v2 was regenerated at Chief of Staff's request (Nov 23) but used `streak_pale` as an image reference; PR Verifier blocked it as a recolour (mask overlap 0.983). v3 replaces it: painted from its own prompt with no reference, frames 12 / 10 / 9 px (slightly thinner than the others, a known look item), mask IoU vs pale 0.62; v1 and v2's sha256 stay in the PROVENANCE entry's `supersedes`.
 
 ---
 
@@ -353,11 +353,11 @@ Each PR ships on its own. Each one needs:
      - glows: coin 22, crit 30, blooms 0.35 to 0.7 x the impact ring (preview 20);
      - screen burst: half the 512 frame = half the screen's long side, centred on the impact (844 px across on a 390 x 844 phone; preview 900 px centred), the old flash's size; the art's alpha-mass radius 0.41 matches the old glow's 0.43. Opacity = flash strength x (1 - life)^2, the old timing;
      - impact rings: relative to each impact's ring radius (30 to 320 world units), 0.3 to 1.11 x it over the pulse, so the v3 ring starts near 0.12 R and ends on R as the old stroke did (preview 48 px fixed). With the v3 band (about 3% of the frame radius) a boss-kill ring is about 4 px thick, near main's 3-12 world-unit stroke. The v1 rings were much thicker; Brian rejected that look on Nov 16.
-2. **PR 10b: The rest of the canvas FX** (X7, X12, X13, X14, P2, P3). **Built on `oo-10b-fx-particles` from main `fd40843` (SW v31); PR open, waiting on Brian's look check.**
+2. **PR 10b: The rest of the canvas FX** (X7, X12, X13, X14, P2, P3). **Built on `oo-10b-fx-particles` from main `fd40843` (SW v31); PR open; under the Nov 23 rule it ships after a PR Verifier PASS, and Brian looks when he can.**
    - Objects: no new drawing code. Every look is an `fx.json` entry played by the generic `SpriteEffect`; the drawers only place them. `ParticleBatch` plays `glow.<v>`, `mote.<v>` (one cell of the `motes` atlas, by the atlas's own `cells` names) and `streak.<v>` (fresh / mid / fade frame by age, stretched along the velocity, head on the particle). `ProjectileTrails` plays `trail.<v>` behind each shot plus `glow.<v>`. `OverlayLayer` plays `lowHpVignette` (`vignette_red`, stretched over the screen, alpha = the old vignette level) and `screenFlash` (`screen_burst`, replacing the X13 white fill). `HudCanvasLayer` plays `finaleDim` (`vignette_dark`, fading in over 0.5 s).
    - Data: `fx.json` gains `presets` (streakBurst, aura, trail, glow, ring), `impacts` (burst, variant colours, radius, bloom, flash, shake, thump, sfx, joined to the 10a ring / bloom ids) and `themes` (blend, glow, trail opacity); `glowColors` and `FxRenderer.glow` are gone. `FxPresets.js` keeps only `FX_ROUTES` and `FX_QUALITY`. Elements name a `trail` (ember, frost, spark, venom); `ElementRegistry.shotTrail` sets `p.trail`.
    - New `SpriteEffect` settings: fit `stretch` (segment at height = size x base) and `fill` (over the caller's x, y, w, h), a fixed `frame`, the caller's `blend`; `FxManifest` reads a sheet's `pivot` as its anchor (streak and trail heads sit at the right end).
-   - Art: Game Art & Motion PR10b v1 (section G rows 9-13, Nov 16): `motes`, `streak_<pale, gold, amber, red, pink, cyan, green, lime, soot>` (lime added Nov 16 for venom bursts, repainted as v2 on Nov 23), `trail_<base, ember, frost, spark, venom>`, `vignette_red`, `vignette_dark` (17 PNGs), byte-identical (sha256 in `assets/fx/PROVENANCE.json`, merged under `_about.pr10b`; LICENSE and PIPELINE appended). 0 near-white pixels.
+   - Art: Game Art & Motion PR10b v1 (section G rows 9-13, Nov 16): `motes`, `streak_<pale, gold, amber, red, pink, cyan, green, lime, soot>` (lime added Nov 16 for venom bursts; v3 since Nov 23), `trail_<base, ember, frost, spark, venom>`, `vignette_red`, `vignette_dark` (17 PNGs), byte-identical (sha256 in `assets/fx/PROVENANCE.json`, merged under `_about.pr10b`; LICENSE and PIPELINE appended). 0 near-white pixels.
    - Sizes matched to main at 390x844: trails `height` 20, `stretch` 0.075, `maxLength` 72 (the art's band fills 26-47% of its frame and fades over its back half, so main's 9 px x 0.05 s stroke needed a taller, longer draw to show the same visible tail); the vignettes are drawn at alpha 1 because their opacity is painted in (red corners 0.75 = main's maximum, dark mean 0.45 = main's dim).
    - Tests: `tools/fx-test.js` (impact settings, variant coverage, no colour literals in presets / impacts / themes, the 10b art at its delivered sizes and pivots with `mote.<v>` on the cell named v), `tools/fx-art-scan.js` (ParticleBatch, ProjectileTrails, OverlayLayer, HudCanvasLayer draw no shapes or colours), `tools/render-test.js` (particle calls across 4 themes x 2 qualities), `tools/fx-acceptance-test.py` (streak and trail fixtures). Shots: `docs/qa/pr10b/`.
    - Also in 10b: the screen-snapshot flake fix (`tools/screen-snapshot-test.py`): the music scheduler in `audio.js` draws `Math.random()` on a timer, and the test reseeded and ran each step in two browser calls, so a music tick could land between them in one tree and change the card deal. The reseed and the step now run in one call; a `SNAPSHOT_RACE_MS` wait before each step (default 150) keeps the race open so the check stays honest.
